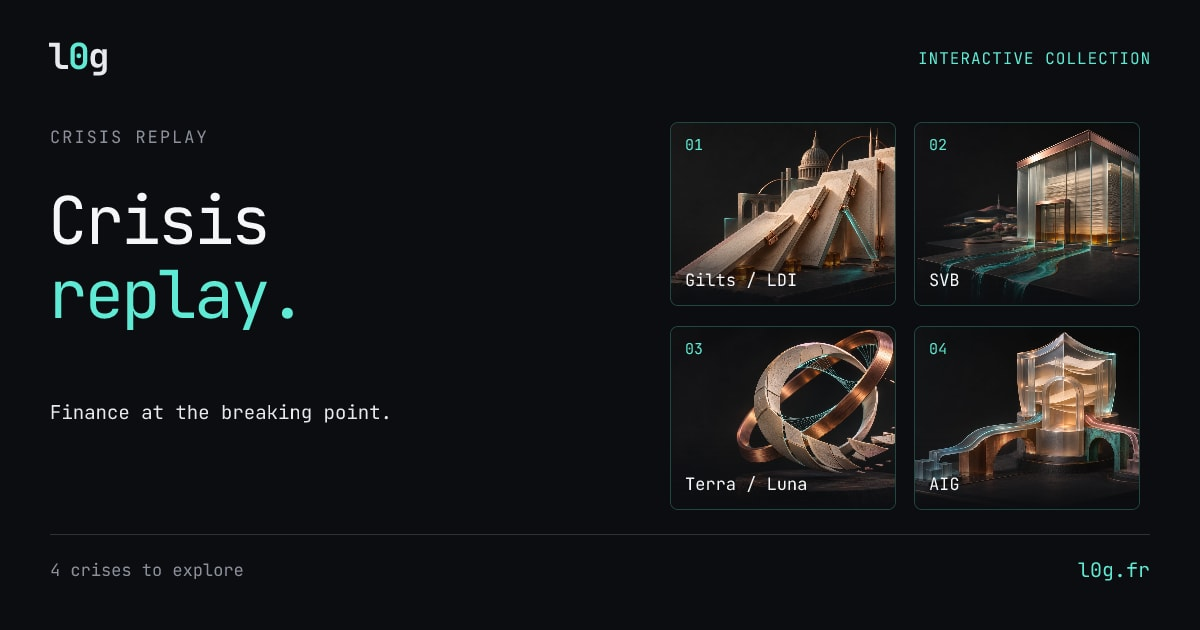
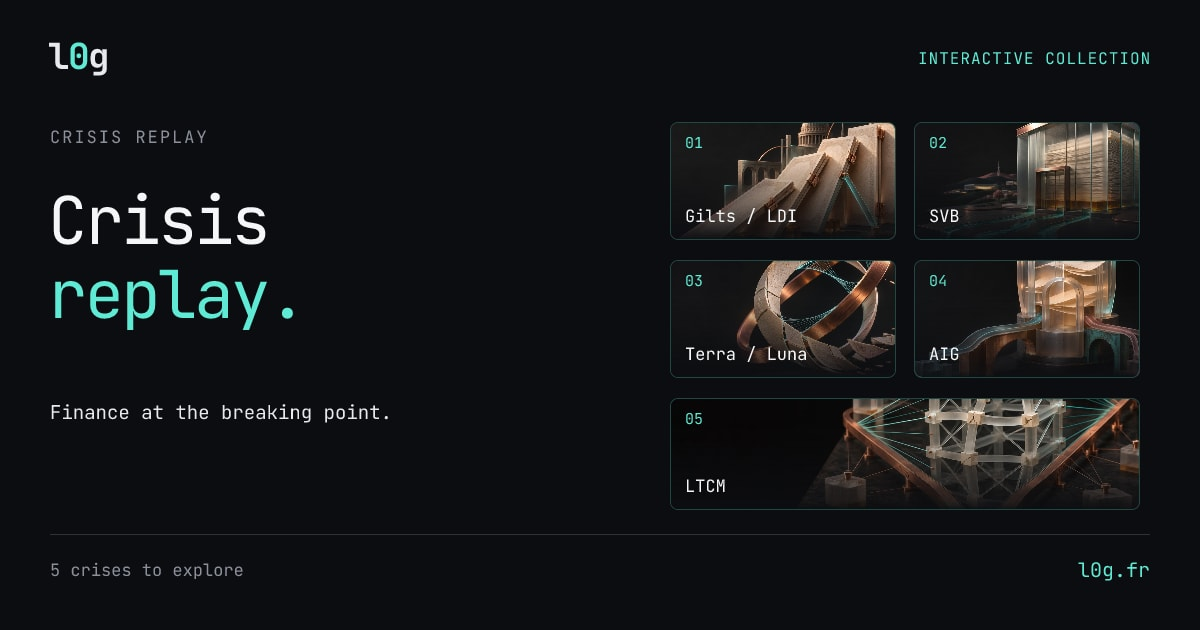
Ajouter le replay LTCM et les visuels du cinquième épisode

Changed region(s): [[0.555, 0.181, 0.9558, 0.7841], [0.555, 0.2111, 0.5858, 0.2413]]

diff --git a/src/data/crisis-ltcm.ts b/src/data/crisis-ltcm.ts
@@ -1,0 +1,80 @@
+import type { ReplayChapter, ReplaySource } from './crisis-replay.ts';
+
+export const ltcmSources: ReplaySource[] = [
+  {id:'L01',issuer:'International Monetary Fund',published:'1998-08-17',title:'Camdessus Comments on Russian Actions',
+    url:'https://www.imf.org/en/news/articles/2015/09/29/18/03/nb9830',
+    scope:{fr:'Déclaration de Michel Camdessus diffusée à Moscou le 17 août 1998 : changement de politique de change, restructuration de la dette publique et restrictions temporaires sur les paiements de capitaux. Le FMI expose son appréciation des mesures russes. Les chiffres du chemin d’URL correspondent à une migration du site.',en:'Michel Camdessus’s statement released in Moscow on 17 August 1998: exchange-rate policy changes, government-debt restructuring and temporary restrictions on capital payments. The IMF presents its assessment of the Russian measures. The date-like URL path reflects a website migration.'}},
+  {id:'L02',issuer:'Federal Reserve / FOMC',published:'1998-09-29',title:'FOMC statement, September 29, 1998',
+    url:'https://www.federalreserve.gov/boarddocs/press/general/1998/19980929/',
+    scope:{fr:'Communiqué du 29 septembre : baisse de 25 points de base du taux attendu des fonds fédéraux, vers 5,25 %. Le FOMC évoque la faiblesse des économies étrangères et des conditions financières intérieures moins accommodantes. Décision de politique monétaire à l’échelle de l’économie.',en:'29 September release: a 25-basis-point reduction in the expected federal funds rate to about 5.25%. The FOMC cites weaker foreign economies and less accommodative domestic financial conditions. This is an economy-wide monetary-policy decision.'}},
+  {id:'L03',issuer:'Federal Reserve Bank of New York',published:'1998-10-01',title:'William McDonough: private-sector recapitalization of Long-Term Capital Management',
+    url:'https://www.newyorkfed.org/newsevents/speeches/1998/mcd981001',
+    scope:{fr:'Témoignage du 1er octobre : stratégie d’écarts de taux, pertes, risque de liquidation et formation du consortium de quatorze établissements. McDonough défend les décisions de son institution. Les événements de septembre sont rapportés à la date de cette audition publique.',en:'1 October testimony: interest-rate spread strategies, losses, liquidation risk and the fourteen-firm consortium. McDonough defends his institution’s decisions. September’s events enter this replay at the date of this public hearing.'}},
+  {id:'L04',issuer:'Federal Reserve',published:'1998-10-01',title:'Alan Greenspan: private-sector refinancing of LTCM',
+    url:'https://www.federalreserve.gov/boarddocs/testimony/1998/19981001.htm',
+    scope:{fr:'Témoignage du 1er octobre : financement par pensions et dérivés, clauses de défaut croisé et risque de ventes précipitées. Greenspan décrit une médiation et un refinancement privés. Les perturbations supplémentaires redoutées sont un scénario conditionnel de défaut.',en:'1 October testimony: repo and derivatives financing, cross-default clauses and fire-sale risk. Greenspan describes facilitation and private refinancing. The feared additional market disruption is a conditional default scenario.'}},
+  {id:'L05',issuer:'Securities and Exchange Commission',published:'1998-10-01',title:'Richard Lindsey: Hedge Fund Activities in the U.S. Financial Markets',
+    url:'https://www.sec.gov/newsroom/speeches-statements/tsty1498-testimony-hedge-fund-activities-us-financial-markets',
+    scope:{fr:'Audition du 1er octobre : encadrement des courtiers, exposition aux fonds et limites des informations disponibles. Lindsey présente les premiers travaux de la SEC. L’évaluation porte sur le périmètre des courtiers interrogés et reste préliminaire.',en:'1 October hearing: broker-dealer oversight, hedge-fund exposures and information gaps. Lindsey presents the SEC’s early work. The assessment concerns the surveyed broker-dealer perimeter and remains preliminary.'}},
+  {id:'L06',issuer:'Federal Reserve Bank of New York',published:'1998-10-15',title:'Peter Fisher: The Extraordinary Events in Credit Markets Over the Last Sixty Days',
+    url:'https://www.newyorkfed.org/newsevents/speeches/1998/pf981015',
+    scope:{fr:'Discours du 15 octobre : diversification, rééquilibrages de portefeuille, liquidité, stress tests et décotes sur garanties. Fisher expose des enseignements des tensions de marché. Ses observations couvrent plusieurs marchés et intervenants.',en:'15 October speech: diversification, portfolio rebalancing, liquidity, stress testing and collateral haircuts. Fisher discusses lessons from market strains. His observations cover multiple markets and participants.'}},
+  {id:'L07',issuer:'President’s Working Group on Financial Markets',published:'1999-04-28',title:'Hedge Funds, Leverage, and the Lessons of Long-Term Capital Management',
+    url:'https://www.cftc.gov/sites/default/files/tm/tmhedgefundreport.htm',
+    scope:{fr:'Rapport du Trésor, de la Fed, de la SEC et de la CFTC, transmis au Congrès le 28 avril 1999. Synthèse, étude de LTCM et recommandations sur le levier, la transparence et la gestion des contreparties. La couverture indique avril 1999 et la lettre de transmission précise le jour.',en:'Treasury, Fed, SEC and CFTC report transmitted to Congress on 28 April 1999. Executive summary, LTCM study and recommendations on leverage, transparency and counterparty risk management. The cover gives April 1999 and the transmission letter specifies the day.'}},
+  {id:'L08',issuer:'U.S. General Accounting Office',published:'1999-11-19',title:'LTCM: Regulators Need to Focus Greater Attention on Systemic Risk',
+    url:'https://www.gao.gov/products/ggd-00-3',
+    scope:{fr:'Rapport GGD-00-3 daté du 29 octobre 1999, rendu public le 19 novembre selon la fiche officielle. Le PDF original examine les informations disponibles aux régulateurs et leur coordination. Les mises à jour ultérieures du suivi des recommandations sont hors du corpus de 1999.',en:'Report GGD-00-3 dated 29 October 1999 and publicly released on 19 November, according to the official record. The original PDF examines regulators’ information and coordination. Later recommendation-status updates fall outside the 1999 corpus.'}},
+];
+
+export const ltcmChapters: ReplayChapter[] = [
+  {id:'choc-russe',date:'1998-08-17',phase:'shock',source:'L01',retrospectiveSource:'L03',
+    short:{fr:'Le choc russe',en:'The Russian shock'},title:{fr:'La Russie annonce des mesures de change et de dette',en:'Russia announces currency and debt measures'},
+    text:{fr:'Le FMI relaie les mesures russes : changement de politique de change, restructuration de la dette publique et restrictions temporaires sur les paiements de capitaux. Le communiqué décrit une confiance déjà fragilisée et des réserves sous pression.',en:'The IMF reports Russia’s measures: exchange-rate policy changes, government-debt restructuring and temporary restrictions on capital payments. Its statement describes fragile confidence and pressure on reserves.'},
+    fact:{value:{fr:'17 août 1998',en:'17 Aug 1998'},label:{fr:'Date du communiqué du FMI sur les mesures russes',en:'Date of the IMF statement on Russia’s measures'}},
+    retrospective:{fr:'Le 1er octobre, McDonough reliera l’élargissement des écarts de taux aux pertes de LTCM.',en:'On 1 October, McDonough would link widening interest-rate spreads to LTCM’s losses.'}},
+  {id:'conditions-financieres',date:'1998-09-29',phase:'backstop',source:'L02',retrospectiveSource:'L04',
+    short:{fr:'Le cadre monétaire',en:'Monetary policy'},title:{fr:'Le FOMC assouplit la politique monétaire',en:'The FOMC eases monetary policy'},
+    text:{fr:'Le FOMC annonce une baisse de 25 points de base du taux attendu des fonds fédéraux, vers 5,25 %. Il cite la faiblesse des économies étrangères et le resserrement des conditions financières américaines. Cette réponse vise les perspectives de l’économie.',en:'The FOMC announces a 25-basis-point reduction in the expected federal funds rate to about 5.25%. It cites weaker foreign economies and tighter US financial conditions. The decision addresses the economic outlook.'},
+    fact:{value:{fr:'5,25 %',en:'5.25%'},label:{fr:'Niveau attendu des fonds fédéraux après la décision',en:'Expected federal funds rate following the decision'}},
+    retrospective:{fr:'Greenspan décrira séparément la médiation menée autour du refinancement privé de LTCM.',en:'Greenspan would separately describe facilitation of LTCM’s private refinancing.'}},
+  {id:'recapitalisation-privee',date:'1998-10-01',phase:'backstop',source:'L03',retrospectiveSource:'L07',
+    short:{fr:'Le consortium',en:'The consortium'},title:{fr:'McDonough expose la recapitalisation privée',en:'McDonough explains the private recapitalisation'},
+    text:{fr:'Devant le Congrès, le président de la Fed de New York décrit les paris de LTCM sur le rapprochement des écarts de taux. Leur élargissement a produit des pertes. Il présente un consortium de quatorze établissements dont l’apport en fonds propres transfère le contrôle du portefeuille aux créanciers.',en:'Before Congress, the New York Fed president describes LTCM’s bets on narrowing interest-rate spreads. Widening spreads produced losses. He presents a fourteen-firm consortium whose equity investment transfers control of the portfolio to creditors.'},
+    fact:{value:{fr:'14 établissements',en:'14 firms'},label:{fr:'Composition du groupe de créanciers décrite dans l’audition',en:'Creditor group described in the hearing'}},
+    retrospective:{fr:'Le rapport de 1999 examinera les limites de la discipline exercée par les contreparties.',en:'The 1999 report would examine shortcomings in counterparty discipline.'}},
+  {id:'risque-liquidation',date:'1998-10-01',phase:'diagnosis',source:'L04',retrospectiveSource:'L07',
+    short:{fr:'Le risque de ventes',en:'Fire-sale risk'},title:{fr:'Greenspan décrit le risque d’une liquidation précipitée',en:'Greenspan describes the risk of a disorderly liquidation'},
+    text:{fr:'Greenspan explique que les pensions livrées et les dérivés ont accru le levier de LTCM. Selon son témoignage, un défaut aurait pu déclencher des résiliations croisées et des ventes dans des marchés déjà fragiles. La Fed a facilité les discussions entre financeurs privés.',en:'Greenspan explains how repos and derivatives increased LTCM’s leverage. His testimony describes a default scenario involving cross-defaults and asset sales in already fragile markets. The Fed facilitated discussions among private financiers.'},
+    fact:{value:{fr:'Capital privé',en:'Private capital'},label:{fr:'Financement de la recapitalisation, facilité par une médiation',en:'Recapitalisation financing facilitated through mediation'}},
+    retrospective:{fr:'Le groupe de travail reliera le levier excessif au risque de propagation entre institutions.',en:'The working group would connect excessive leverage with the risk of transmission between institutions.'}},
+  {id:'perimetre-sec',date:'1998-10-01',phase:'diagnosis',source:'L05',retrospectiveSource:'L08',
+    short:{fr:'Le périmètre de la SEC',en:'The SEC perimeter'},title:{fr:'La SEC présente son évaluation préliminaire',en:'The SEC presents its preliminary assessment'},
+    text:{fr:'Richard Lindsey décrit les contrôles des courtiers et les informations encore partielles sur les fonds spéculatifs. La SEC examine les expositions à LTCM et appelle à poursuivre l’enquête sur ses stratégies et son levier.',en:'Richard Lindsey describes broker-dealer controls and incomplete information on hedge funds. The SEC examines LTCM exposures and calls for further study of the fund’s strategies and leverage.'},
+    fact:{value:{fr:'Courtiers',en:'Broker-dealers'},label:{fr:'Périmètre de surveillance examiné par la SEC',en:'Supervisory perimeter examined by the SEC'}},
+    retrospective:{fr:'Le GAO étudiera ensuite les difficultés d’une évaluation des risques à travers plusieurs autorités.',en:'GAO would later examine the difficulties of assessing risks across regulatory authorities.'}},
+  {id:'illusion-liquidite',date:'1998-10-15',phase:'diagnosis',source:'L06',retrospectiveSource:'L07',
+    short:{fr:'L’illusion de liquidité',en:'The liquidity illusion'},title:{fr:'Fisher relie rééquilibrages et tensions de liquidité',en:'Fisher connects portfolio rebalancing and liquidity strains'},
+    text:{fr:'Peter Fisher revient sur les ventes d’actifs et les rééquilibrages de portefeuille. Il explique pourquoi la liquidité et les relations entre marchés peuvent se dégrader ensemble. Il recommande des stress tests tenant compte des conditions réelles d’exécution et des garanties demandées.',en:'Peter Fisher reviews asset sales and portfolio rebalancing. He explains how liquidity and relationships across markets can deteriorate together. He calls for stress tests that account for actual trading conditions and collateral requirements.'},
+    fact:{value:{fr:'Stress tests',en:'Stress tests'},label:{fr:'Scénarios intégrant les conditions d’exécution en marché tendu',en:'Scenarios incorporating trading conditions in stressed markets'}},
+    retrospective:{fr:'Le rapport du groupe de travail prolongera cette réflexion sur la gestion des contreparties.',en:'The working group report would develop the discussion of counterparty risk management.'}},
+  {id:'rapport-pwg',date:'1999-04-28',phase:'diagnosis',source:'L07',retrospectiveSource:'L07',
+    short:{fr:'Le rapport commun',en:'The joint report'},title:{fr:'Le groupe de travail propose de mieux encadrer le levier',en:'The working group proposes tighter leverage discipline'},
+    text:{fr:'Le Trésor, la Fed, la SEC et la CFTC transmettent leur rapport au Congrès. Leurs recommandations portent sur la transparence, l’analyse des contreparties et la gestion du risque. Le groupe souligne que le levier concerne aussi des établissements autres que les fonds spéculatifs.',en:'Treasury, the Fed, the SEC and the CFTC transmit their report to Congress. Their recommendations address transparency, counterparty analysis and risk management. They stress that leverage concerns institutions beyond hedge funds.'},
+    fact:{value:{fr:'28 avril 1999',en:'28 Apr 1999'},label:{fr:'Transmission du rapport au Congrès',en:'Report transmitted to Congress'}},
+    retrospective:{fr:'Le document rapproche les informations recueillies après la recapitalisation et formule des recommandations.',en:'The report combines information gathered after the recapitalisation and sets out recommendations.'}},
+  {id:'rapport-gao',date:'1999-11-19',phase:'diagnosis',source:'L08',retrospectiveSource:'L08',
+    short:{fr:'L’examen du GAO',en:'The GAO review'},title:{fr:'Le GAO demande une meilleure coordination des régulateurs',en:'GAO calls for stronger coordination among regulators'},
+    text:{fr:'Le GAO rend public son rapport sur LTCM. Il examine les informations connues des régulateurs et les limites de leur coordination. Il recommande une évaluation des risques traversant les frontières entre secteurs et autorités.',en:'GAO publicly releases its LTCM report. It examines regulators’ information and the limits of their coordination. It recommends better assessment of risks crossing sectoral and regulatory boundaries.'},
+    fact:{value:{fr:'19 nov. 1999',en:'19 Nov 1999'},label:{fr:'Diffusion publique du rapport daté du 29 octobre',en:'Public release of the report dated 29 October'}},
+    retrospective:{fr:'Le replay s’arrête à la diffusion publique du rapport original. Les suivis ultérieurs sont présentés sur la fiche du GAO.',en:'The replay ends with the original report’s public release. Later follow-up appears on GAO’s record page.'}},
+];
+
+export const ltcmActors = [
+  {id:'fed',source:'L04',role:{fr:'Coordination',en:'Facilitation'},label:{fr:'Fed de New York',en:'New York Fed'},description:{fr:'La Fed de New York réunit des intervenants intéressés à une solution ordonnée. Greenspan présente cette médiation dans son audition du 1er octobre.',en:'The New York Fed brings together firms seeking an orderly solution. Greenspan describes this facilitation in his 1 October testimony.'}},
+  {id:'markets',source:'L03',role:{fr:'Écarts de taux',en:'Interest-rate spreads'},label:{fr:'Marchés du crédit',en:'Credit markets'},description:{fr:'L’écart de rendement mesure ici la différence entre taux de titres distincts. Selon McDonough, son élargissement a affecté les positions de convergence de LTCM.',en:'A yield spread is the difference between yields on different securities. McDonough describes widening spreads affecting LTCM’s convergence positions.'}},
+  {id:'ltcm',source:'L04',role:{fr:'Fonds à levier',en:'Leveraged fund'},label:{fr:'LTCM',en:'LTCM'},description:{fr:'Le fonds recourt aux pensions livrées et aux dérivés pour accroître ses expositions. Ces financements et contrats le relient à plusieurs établissements.',en:'The fund uses repos and derivatives to expand its exposures. Those financing arrangements and contracts connect it to multiple firms.'}},
+  {id:'dealers',source:'L05',role:{fr:'Contrats et crédit',en:'Contracts and credit'},label:{fr:'Contreparties',en:'Counterparties'},description:{fr:'Les contreparties prêtent, traitent des dérivés et demandent des garanties. La SEC examine les expositions des courtiers à LTCM dans le cadre de sa surveillance.',en:'Counterparties lend, trade derivatives and require collateral. The SEC examines broker-dealers’ LTCM exposures within its supervisory remit.'}},
+  {id:'unwind',source:'L04',role:{fr:'Scénario de défaut',en:'Default scenario'},label:{fr:'Ventes forcées',en:'Forced asset sales'},description:{fr:'Greenspan redoute les effets d’une liquidation précipitée en cas de défaut. Cette branche de la carte représente le scénario invoqué pour justifier la médiation.',en:'Greenspan discusses feared effects of a disorderly liquidation following default. This map branch depicts the scenario used to justify facilitation.'}},
+  {id:'consortium',source:'L03',role:{fr:'Fonds propres privés',en:'Private equity funding'},label:{fr:'Consortium',en:'Consortium'},description:{fr:'Quatorze établissements apportent du capital et prennent le contrôle du portefeuille. Le financement de cette recapitalisation vient du groupe de créanciers.',en:'Fourteen firms contribute equity and take control of the portfolio. This recapitalisation is financed by the creditor group.'}},
+];

diff --git a/src/scripts/crisis-replay.ts b/src/scripts/crisis-replay.ts
@@ -3,7 +3,7 @@ import { parseReplayHash, replayHash, replayMapState } from '../lib/crisis-repla
 
 for (const root of document.querySelectorAll<HTMLElement>('[data-crisis-replay]')) {
   const fr = root.dataset.language !== 'en';
-  const episodeId: ReplayEpisodeId = root.dataset.episode === 'aig' ? 'aig' : root.dataset.episode === 'terra' ? 'terra' : root.dataset.episode === 'svb' ? 'svb' : 'gilts';
+  const episodeId: ReplayEpisodeId = root.dataset.episode === 'ltcm' ? 'ltcm' : root.dataset.episode === 'aig' ? 'aig' : root.dataset.episode === 'terra' ? 'terra' : root.dataset.episode === 'svb' ? 'svb' : 'gilts';
   const replayChapters = getReplayEpisode(episodeId).chapters;
   const t = (f: string, e: string) => fr ? f : e;
   const find = <T extends HTMLElement>(selector: string) => {
@@ -34,6 +34,9 @@ for (const root of document.querySelectorAll<HTMLElement>('[data-crisis-replay]'
     find('[data-replay-share-status]').textContent = '';
     const chapter = replayChapters[index];
     const state = replayMapState(index, mode, episodeId);
+    root.dataset.ltcmModel=String(state.ltcmModel);
+    root.dataset.ltcmCapital=String(state.ltcmCapital);
+    root.dataset.ltcmCoordination=String(state.ltcmCoordination);
     root.dataset.loop = String(state.loop);
     root.dataset.purchases = String(state.purchases);
     root.dataset.repo = String(state.repo);
@@ -60,6 +63,7 @@ for (const root of document.querySelectorAll<HTMLElement>('[data-crisis-replay]'
     const wires: Record<string, boolean> = { loop:state.loop, withdrawals:state.loop, purchases:state.purchases, repo:state.repo,
       securities:state.securities, resolution:state.resolution, protection:state.protection, funding:state.funding,
       anchor:state.loop, support:state.support, conversion:state.conversion, issuance:state.loop, sales:state.loop, feedback:state.loop,
+      'ltcm-model':state.ltcmModel,'ltcm-funding':state.ltcmFunding,'ltcm-risk':state.ltcmRisk,'ltcm-capital':state.ltcmCapital,'ltcm-coordination':state.ltcmCoordination,
       'aig-credit':state.aigCredit, 'aig-lending':state.aigLending, 'aig-cds':state.aigCds,
       'aig-ml2-funding':state.aigMl2, 'aig-ml3-funding':state.aigMl3, 'aig-ml2-purchase':state.aigMl2, 'aig-ml3-purchase':state.aigMl3 };
     root.querySelectorAll<SVGPathElement>('[data-wire]').forEach(path => { path.dataset.active = String(wires[path.dataset.wire ?? ''] ?? false); });
@@ -98,6 +102,14 @@ for (const root of document.querySelectorAll<HTMLElement>('[data-crisis-replay]'
       : state.aigMl2 ? t('Deux véhicules sont annoncés : RMBS vers Maiden Lane II, CDO vers Maiden Lane III.', 'Two vehicles are announced: RMBS to Maiden Lane II, CDOs to Maiden Lane III.')
       : state.aigLending ? t('Le communiqué du 8 octobre décrit le remboursement du cash du prêt de titres.', 'The 8 October release describes cash settlements under securities lending.')
       : t('Crédit d’urgence annoncé. Les deux circuits sont détaillés dans les documents suivants.', 'Emergency credit announced. The two channels are detailed in subsequent documents.');
+    if (episodeId === 'ltcm') perspective.textContent=state.retrospective
+      ? t('Mécanisme éclairé par les auditions du 1er octobre. Le capital du consortium apparaît à leur date dans ce corpus.', 'Mechanism informed by the 1 October hearings. Consortium capital appears at their date in this corpus.')
+      : chapter.id==='choc-russe' ? t('Mesures russes annoncées le 17 août. Les liens avec LTCM sont documentés dans les auditions ultérieures.', 'Russian measures announced on 17 August. Links to LTCM are documented in later hearings.')
+      : chapter.id==='conditions-financieres' ? t('Politique monétaire générale. Le financement du consortium est présenté dans le récit du 1er octobre.', 'Economy-wide monetary policy. Consortium funding is presented in the 1 October account.')
+      : chapter.id==='rapport-gao' ? t('Rapport daté du 29 octobre 1999, rendu public le 19 novembre. Les circuits restent des repères historiques.', 'Report dated 29 October 1999, publicly released on 19 November. The channels remain historical context.')
+      : chapter.id==='rapport-pwg' ? t('Le rapport commun examine le levier et la gestion des contreparties après la recapitalisation.', 'The joint report examines leverage and counterparty management after the recapitalisation.')
+      : chapter.id==='illusion-liquidite' ? t('Fisher décrit les tensions de plusieurs marchés. La branche des ventes reste le scénario de défaut invoqué dans les auditions.', 'Fisher discusses strains across markets. The sales branch remains the default scenario invoked in the hearings.')
+      : t('Capital apporté par le consortium. Liaison pointillée : médiation de la Fed. Ventes forcées : scénario de défaut.', 'Capital supplied by the consortium. Dotted link: Fed facilitation. Forced sales: a default scenario.');
     range.value = String(index);
     const date = new Intl.DateTimeFormat(fr ? 'fr-FR' : 'en-GB', { dateStyle: 'long', timeZone: 'UTC' }).format(new Date(`${chapter.date}T12:00:00Z`));
     range.setAttribute('aria-valuetext', `${date} · ${chapter.short[fr ? 'fr' : 'en']}`);

diff --git a/src/styles/crisis-replay.css b/src/styles/crisis-replay.css
@@ -109,7 +109,7 @@
 .replay-bottom-bar button { min-height:44px; font-size:.65rem; background:transparent; color:var(--color-signal); }
 .replay-share { display:flex; align-items:center; gap:.65rem; flex-wrap:wrap; }
 .replay-share>span { font-size:.65rem; color:var(--color-paper); }
-.replay-episodes { display:grid; grid-template-columns:repeat(4,minmax(0,1fr)); gap:.75rem; margin:0 0 1.25rem; }
+.replay-episodes { display:grid; grid-template-columns:repeat(var(--replay-episode-count,4),minmax(0,1fr)); gap:.75rem; margin:0 0 1.25rem; }
 .replay-episodes a { display:grid; grid-template-columns:auto minmax(0,1fr) auto; align-items:center; column-gap:.8rem; row-gap:.3rem; padding:.9rem 1rem; border:1px solid var(--color-line); border-radius:8px; color:var(--color-muted); }
 .replay-episodes a[aria-current=page] { border-color:color-mix(in srgb,var(--color-signal) 45%,var(--color-line)); background:color-mix(in srgb,var(--color-signal) 3%,transparent); }
 .replay-episodes a>span:first-child { grid-row:1/3; font:400 .7rem var(--font-mono); color:var(--color-signal); }
@@ -234,3 +234,41 @@
   .crisis-replay[data-episode=aig] .replay-fact>span { font-size:1.35rem; }
   .crisis-replay[data-episode=aig] .replay-fact>p { flex:1; min-width:14ch; }
 }
+
+.ltcm-map { max-width:640px; margin:.3rem auto 0; }
+.ltcm-actor { width:min(152px,27%); }
+.ltcm-wire-labels { font-size:12px; }
+.ltcm-wire-labels text { paint-order:stroke; stroke:var(--color-surface); stroke-width:3px; stroke-linejoin:round; }
+.ltcm-spread { stroke:var(--color-line-strong); opacity:.45; }
+.ltcm-spread text { fill:var(--color-muted); font:400 12px var(--font-read); }
+.crisis-replay[data-ltcm-model=true] .ltcm-spread { stroke:var(--replay-highlight); opacity:1; }
+.crisis-replay[data-episode=ltcm] [data-wire=ltcm-funding][data-active=true] { stroke:var(--color-topic-blue); }
+.crisis-replay[data-episode=ltcm] :is([data-wire=ltcm-capital],[data-wire=ltcm-coordination])[data-active=true] { stroke:var(--color-signal); }
+.crisis-replay[data-episode=ltcm] [data-wire=ltcm-coordination][data-active=true] { stroke-dasharray:2 5; }
+.crisis-replay[data-episode=ltcm] [data-wire=ltcm-risk][data-active=true] { stroke-dasharray:6 5; }
+.crisis-replay[data-episode=ltcm][data-map-retrospective=true] :is([data-wire=ltcm-model],[data-wire=ltcm-funding],[data-wire=ltcm-risk])[data-active=true] { stroke:var(--color-amber); stroke-dasharray:5 5; }
+.crisis-replay[data-ltcm-capital=true] .ltcm-actor-consortium,.crisis-replay[data-ltcm-coordination=true] .ltcm-actor-fed { border-color:var(--color-signal); }
+.crisis-replay[data-ltcm-model=true] .ltcm-actor-ltcm { border-color:var(--replay-highlight); }
+@media(max-width:1100px) {
+ .crisis-replay[data-episode=ltcm] .replay-workspace { grid-template-columns:1fr; }
+ .crisis-replay[data-episode=ltcm] .replay-narrative { border-left:0; border-top:1px solid var(--color-line); }
+}
+@media(max-width:600px) {
+ .ltcm-map { max-width:380px; }
+ .ltcm-map .replay-wires-desktop { display:none!important; }
+ .ltcm-map .replay-wires-mobile { display:block!important; }
+ .ltcm-actor { left:var(--mx); top:var(--my); width:39%; }
+}
+@media(max-width:460px) {
+ .ltcm-actor .replay-actor-symbol { width:19px; }
+ .ltcm-actor strong { font-size:.73rem; }
+ .ltcm-actor small { font-size:.53rem; }
+ .crisis-replay[data-episode=ltcm] .replay-fact { flex-wrap:wrap; gap:.5rem 1rem; }
+ .crisis-replay[data-episode=ltcm] .replay-fact>span { font-size:1.35rem; }
+ .crisis-replay[data-episode=ltcm] .replay-fact>p { flex:1; min-width:14ch; }
+}
+
+@media(max-width:460px) { .ltcm-map .ltcm-wire-labels { font-size:16px; }.ltcm-map .ltcm-mobile-note { font-size:13px; } }
+
+.replay-legend .legend-risk { border-color:var(--color-accent); border-top-style:dashed; }
+.replay-legend .legend-mediation { border-color:var(--color-signal); border-top-style:dotted; }

diff --git a/src/data/crisis-episodes.ts b/src/data/crisis-episodes.ts
@@ -2,7 +2,8 @@ import { replayActors, replayChapters, replaySources } from './crisis-replay.ts'
 import { svbActors, svbChapters, svbSources } from './crisis-svb.ts';
 import { terraActors, terraChapters, terraSources } from './crisis-terra.ts';
 import { aigActors, aigChapters, aigSources } from './crisis-aig.ts';
-export type ReplayEpisodeId = 'gilts' | 'svb' | 'terra' | 'aig';
+import { ltcmActors, ltcmChapters, ltcmSources } from './crisis-ltcm.ts';
+export type ReplayEpisodeId = 'gilts' | 'svb' | 'terra' | 'aig' | 'ltcm';
 export const replayEpisodes = {
   gilts: {
     id:'gilts',number:'01',frHref:'/outils/replay-crises/gilts/',enHref:'/en/tools/crisis-replay/gilts/',initialChapter:3,checkedAt:'2026-11-16',
@@ -43,6 +44,16 @@ export const replayEpisodes = {
     label:{fr:'AIG, la crise de liquidité de 2008',en:'AIG’s 2008 liquidity crisis'},themes:{fr:'CDS · prêt de titres · soutien public',en:'CDS · securities lending · public support'},
     rangeStart:{fr:'SEPT. 2008',en:'SEP 2008'},rangeEnd:{fr:'MAI 2010',en:'MAY 2010'},
     actorSource:'A07',actorSourceLabel:{fr:'Témoignage rétrospectif · Fed, 26 mai 2010',en:'Retrospective testimony · Fed, 26 May 2010'},
+  },
+  ltcm:{
+    id:'ltcm',number:'05',frHref:'/outils/replay-crises/ltcm/',enHref:'/en/tools/crisis-replay/ltcm/',initialChapter:2,checkedAt:'2026-11-17',
+    chapters:ltcmChapters,sources:ltcmSources,actors:ltcmActors,
+    country:{fr:'ÉTATS-UNIS / MARCHÉS MONDIAUX',en:'UNITED STATES / GLOBAL MARKETS'},place:{fr:'Greenwich / New York',en:'Greenwich / New York'},period:{fr:'Août 1998 → novembre 1999',en:'August 1998 → November 1999'},
+    title:{fr:'LTCM. Le piège de la convergence.',en:'LTCM. The convergence trap.'},subtitle:{fr:'Rejouer la crise de 1998.',en:'Replay the 1998 crisis.'},
+    deck:{fr:'Des écarts de taux censés se rapprocher. Un fonds qui amplifie ses paris par l’endettement. Suivez les pertes de LTCM, ses contreparties et la recapitalisation privée facilitée par la Fed de New York.',en:'Interest-rate spreads expected to narrow. A fund magnifying its bets through borrowing. Follow LTCM’s losses, its counterparties and the private recapitalisation facilitated by the New York Fed.'},
+    label:{fr:'LTCM, la crise de 1998',en:'LTCM, the 1998 crisis'},themes:{fr:'Convergence · levier · contreparties',en:'Convergence · leverage · counterparties'},
+    rangeStart:{fr:'AOÛT 1998',en:'AUG 1998'},rangeEnd:{fr:'NOV. 1999',en:'NOV 1999'},
+    actorSource:'L03',actorSourceLabel:{fr:'Contexte documentaire · auditions du 1er octobre 1998',en:'Documentary context · 1 October 1998 hearings'},
   },
 } as const;
 export function getReplayEpisode(id: ReplayEpisodeId = 'gilts') { return replayEpisodes[id]; }

diff --git a/src/config/crisis-gallery.ts b/src/config/crisis-gallery.ts
@@ -26,6 +26,13 @@ export const crisisGallery: Record<ReplayEpisodeId, {
     alt:{fr:'Illustration conceptuelle : deux anneaux imbriqués se désassemblent en une spirale de fragments de céramique et de cuivre.',en:'Conceptual illustration: two interlocking rings unravel into a spiral of ceramic and copper fragments.'},
     ogTitle:{fr:['Terra / Luna.','La spirale.'],en:['Terra / Luna.','The spiral.']},
   },
+  ltcm: {
+    art:'ltcm', name:{fr:'LTCM. Le piège de la convergence',en:'LTCM. The convergence trap'},
+    mechanism:{fr:'Convergence · levier · contreparties',en:'Convergence · leverage · counterparties'},
+    summary:{fr:'Les écarts de taux se creusent et les pertes se cumulent. Un réseau de contreparties entoure le fonds, jusqu’à la recapitalisation par un consortium privé.',en:'Spreads widen and losses accumulate. A network of counterparties surrounds the fund, leading to recapitalisation by a private consortium.'},
+    alt:{fr:'Illustration conceptuelle : deux rails de cuivre divergent et mettent sous tension une structure de verre reliée à plusieurs contrepoids.',en:'Conceptual illustration: two copper rails diverge, straining a glass structure connected to several counterweights.'},
+    ogTitle:{fr:['LTCM.','Le piège de','la convergence.'],en:['LTCM.','The convergence','trap.']},
+  },
   aig: {
     art:'aig', name:{fr:'AIG. Le cash manque',en:'AIG. Cash runs short'},
     mechanism:{fr:'CDS · prêt de titres · soutien public',en:'CDS · securities lending · public support'},
@@ -44,6 +51,6 @@ export function getCrisisGallery(lang: ReplayLanguage) {
 }
 
 export const crisisCollection = {
-  fr:{title:'Replay des crises',description:'Explorez les crises des gilts, de SVB, de Terra / Luna et d’AIG. Des replays interactifs, des annonces datées et des documents primaires pour suivre les mécanismes de transmission.',ogTitle:['Replay','des crises.']},
-  en:{title:'Crisis replay',description:'Explore the gilt, SVB, Terra / Luna and AIG crises through interactive replays, dated announcements and primary documents tracing the mechanisms of financial stress.',ogTitle:['Crisis','replay.']},
+  fr:{title:'Replay des crises',description:'Explorez les crises des gilts, de SVB, de Terra / Luna, d’AIG et de LTCM. Des replays interactifs, des annonces datées et des documents primaires pour suivre les mécanismes de transmission.',ogTitle:['Replay','des crises.']},
+  en:{title:'Crisis replay',description:'Explore the gilt, SVB, Terra / Luna, AIG and LTCM crises through interactive replays, dated announcements and primary documents tracing the mechanisms of financial stress.',ogTitle:['Crisis','replay.']},
 };

diff --git a/src/config/analysis-tools.ts b/src/config/analysis-tools.ts
@@ -26,7 +26,7 @@ export interface AnalysisTool {
 export const analysisTools: AnalysisTool[] = [
   {
     id: 'crisis-replay',
-    version: '1.0.0',
+    version: '1.1.0',
     status: 'active',
     category: 'markets',
     updatedAt: '2026-11-17',
@@ -34,7 +34,7 @@ export const analysisTools: AnalysisTool[] = [
       title: 'Replay des crises',
       eyebrow: 'histoire financière interactive',
       question: 'Comment une fragilité financière se transforme-t-elle en crise de liquidité ?',
-      description: 'Rejouez les crises des gilts, de SVB, de Terra / Luna et d’AIG avec des cartes évolutives, les annonces d’époque et des éclairages rétrospectifs datés.',
+      description: 'Rejouez les crises des gilts, de SVB, de Terra / Luna, d’AIG et de LTCM avec des cartes évolutives, les annonces d’époque et des éclairages rétrospectifs datés.',
       href: '/outils/replay-crises/',
       articleHref: '/posts/gilts-repo-levier-banque-angleterre/',
       articleLabel: 'Lire l’analyse sur les gilts et le levier',
@@ -43,7 +43,7 @@ export const analysisTools: AnalysisTool[] = [
       title: 'Crisis replay',
       eyebrow: 'interactive financial history',
       question: 'How does a financial vulnerability become a liquidity crisis?',
-      description: 'Replay the gilt, SVB, Terra / Luna and AIG crises through evolving maps, contemporary releases and dated retrospective analysis.',
+      description: 'Replay the gilt, SVB, Terra / Luna, AIG and LTCM crises through evolving maps, contemporary releases and dated retrospective analysis.',
       href: '/en/tools/crisis-replay/',
       articleHref: '/en/analysis/gilts-repo-leverage-bank-of-england/',
       articleLabel: 'Read the analysis of gilts and leverage',

diff --git a/src/lib/crisis-replay.ts b/src/lib/crisis-replay.ts
@@ -18,8 +18,16 @@ export function replayHash(index: number, mode: ReplayMode, episodeId: ReplayEpi
 export function replayMapState(index: number, mode: ReplayMode, episodeId: ReplayEpisodeId = 'gilts') {
   const chapter = getReplayEpisode(episodeId).chapters[index];
   if (!chapter) throw new RangeError('Unknown replay chapter');
-  const aig = { aigCredit:false, aigLending:false, aigCds:false, aigMl2:false, aigMl3:false, aigLendingRetro:false, aigCdsRetro:false };
+  const ltcm = { ltcmModel:false, ltcmCapital:false, ltcmCoordination:false, ltcmFunding:false, ltcmRisk:false };
+  const aig = { ...ltcm, aigCredit:false, aigLending:false, aigCds:false, aigMl2:false, aigMl3:false, aigLendingRetro:false, aigCdsRetro:false };
   const terra = { conversion:false, support:false, halt:false, ...aig };
+  if (episodeId === 'ltcm') {
+    const available=mode==='hindsight'||chapter.date>='1998-10-01';
+    return { ...terra, loop:available, purchases:false, repo:false, retrospective:available&&chapter.date<'1998-10-01', exit:false,
+      securities:false, resolution:false, protection:false, funding:false,
+      ltcmModel:available,ltcmFunding:available,ltcmRisk:available,
+      ltcmCapital:chapter.date>='1998-10-01',ltcmCoordination:chapter.date>='1998-10-01' };
+  }
   if (episodeId === 'aig') {
     const aigLendingRetro = mode === 'hindsight' && chapter.date < '2008-10-08';
     const aigCdsRetro = mode === 'hindsight' && chapter.date < '2008-11-10';

diff --git a/src/styles/crisis-gallery.css b/src/styles/crisis-gallery.css
@@ -63,3 +63,10 @@
 }
 @media(max-width:380px) { .cg-contact-name { font-size:.58rem; }.cg-contact-number { top:.45rem; left:.45rem; }.cg-contact-name { left:.45rem; bottom:.45rem; }.cg-contact-arrow { bottom:.45rem; }.cg-counts { gap:1.1rem; }.cg-card-copy { padding:1rem; }.cg-card h3 { font-size:1.35rem; } }
 @media(prefers-reduced-motion:reduce) { .crisis-gallery * { transition:none!important; scroll-behavior:auto!important; } }
+
+.cg-contact a:last-child:nth-child(odd) { grid-column:1/-1; aspect-ratio:3.6; }
+@media(min-width:761px) {
+ .cg-grid>.cg-card:last-child:nth-child(odd) { grid-column:1/-1; }
+ .cg-grid>.cg-card:last-child:nth-child(odd)>a { display:grid; grid-template-columns:1.1fr 1fr; }
+ .cg-grid>.cg-card:last-child:nth-child(odd) .cg-card-art { height:100%; min-height:290px; border-bottom:0; border-right:1px solid var(--color-line); }
+}

diff --git a/docs/crisis-replay-artwork.md b/docs/crisis-replay-artwork.md
@@ -1,5 +1,13 @@
 # Crisis replay artwork
 
+## LTCM addition, 17 November 2026
+
+Created with the built-in imagegen tool. Master: `public/illustrations/crisis-replay/ltcm-art.jpg`. Generate the new derivatives and updated collection cards with `node --experimental-strip-types scripts/generate-crisis-replay-artwork.mjs collection ltcm`.
+
+Exact prompt:
+
+Use case: stylized-concept. Asset type: wide landscape 16:9 original editorial artwork for the LTCM episode in the l0g.fr Crisis replay collection. Museum-quality macro photography of a meticulously crafted physical diorama, matching a premium financial publication's existing charcoal, ivory, brushed copper and fine turquoise-light art direction. A dark stone plinth supports two elegant copper rails which approach each other in the foreground but then bend distinctly apart, pulling taut very fine turquoise tension filaments. Between the diverging rails, an intricate frosted-glass architectural lattice is visibly under strain, with a few precisely fractured ivory spacers. Several small translucent counterweight blocks around the lattice connect through delicate copper threads, suggesting a network of financial counterparties. The mechanism should be physically coherent, exquisite and quiet, not a generic disaster scene. Materials: frosted glass, etched ivory paper, finely brushed copper, a trace of restrained amber. Cinematic controlled side lighting, subtle tactile grain, deep black background, extremely precise details. Centre-right subject, calm dark negative space in the left third for later typography. This is a conceptual illustration, not documentary photography of a real event. No text, letters, digits, logos, coins, currency symbols, charts, price graphs, people, flags, fire or watermarks. No collage or infographic panels.
+
 Created on 17 November 2026 with the built-in imagegen tool. Original conceptual illustrations, not documentary photographs. Responsive WebP derivatives and 1200 × 630 JPEG social cards are generated by `scripts/generate-crisis-replay-artwork.mjs` from the committed `public/illustrations/crisis-replay/*-art.jpg` masters.
 
 ## gilts
